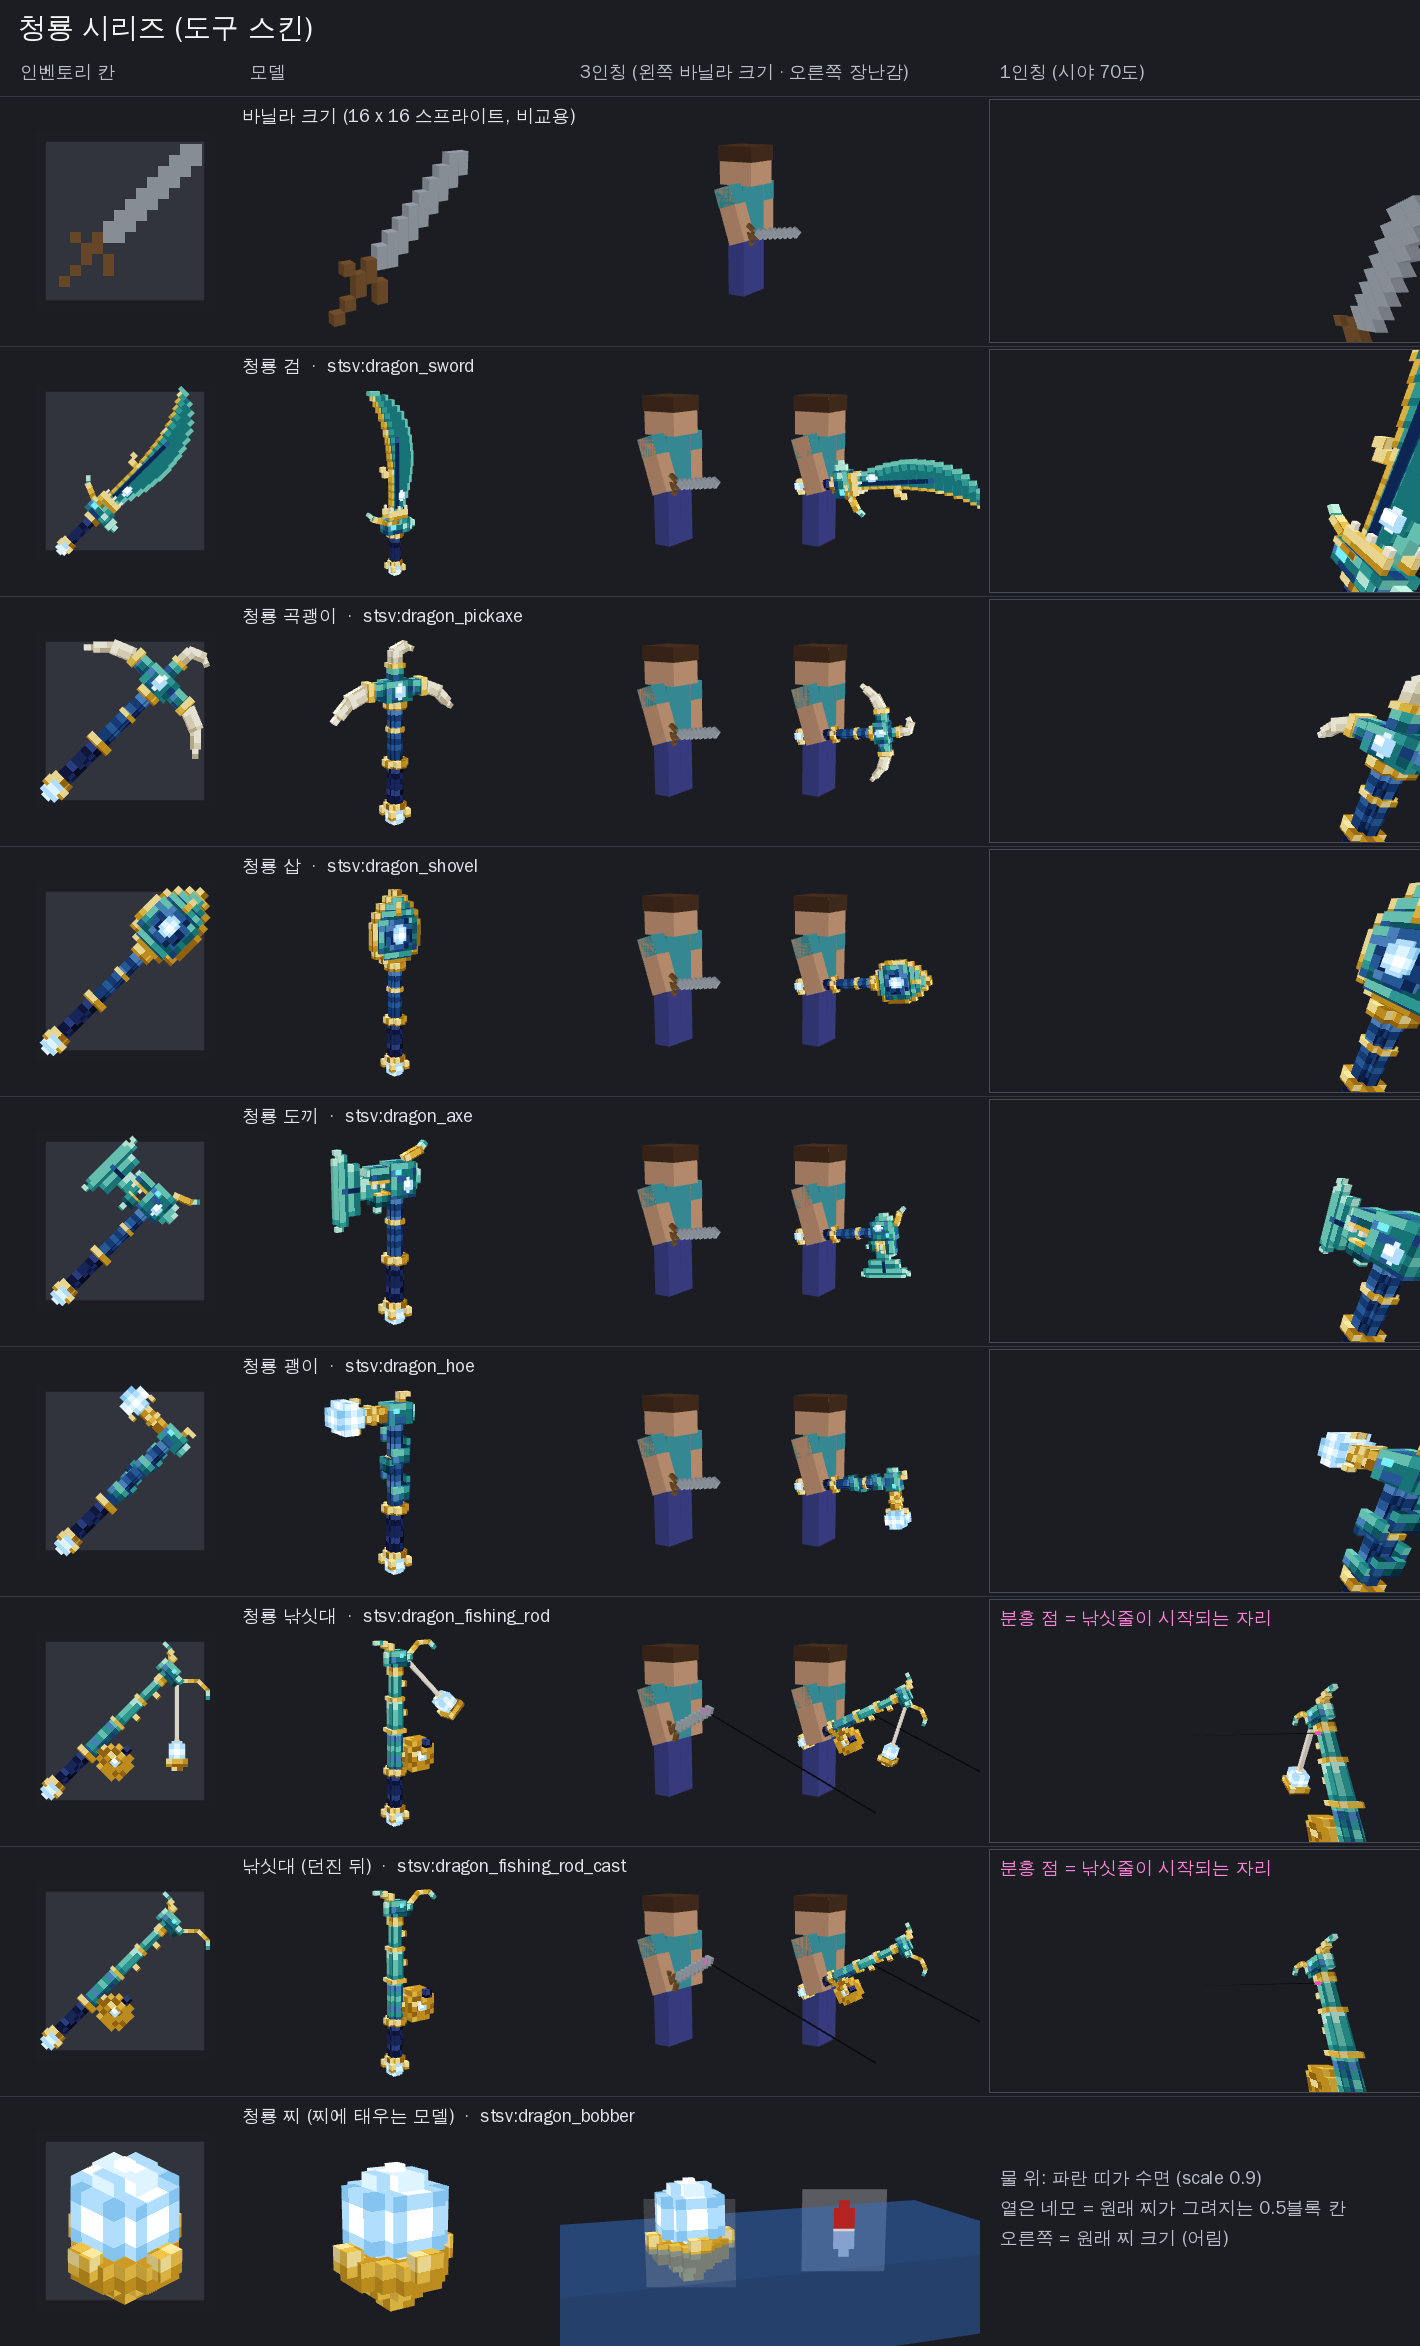
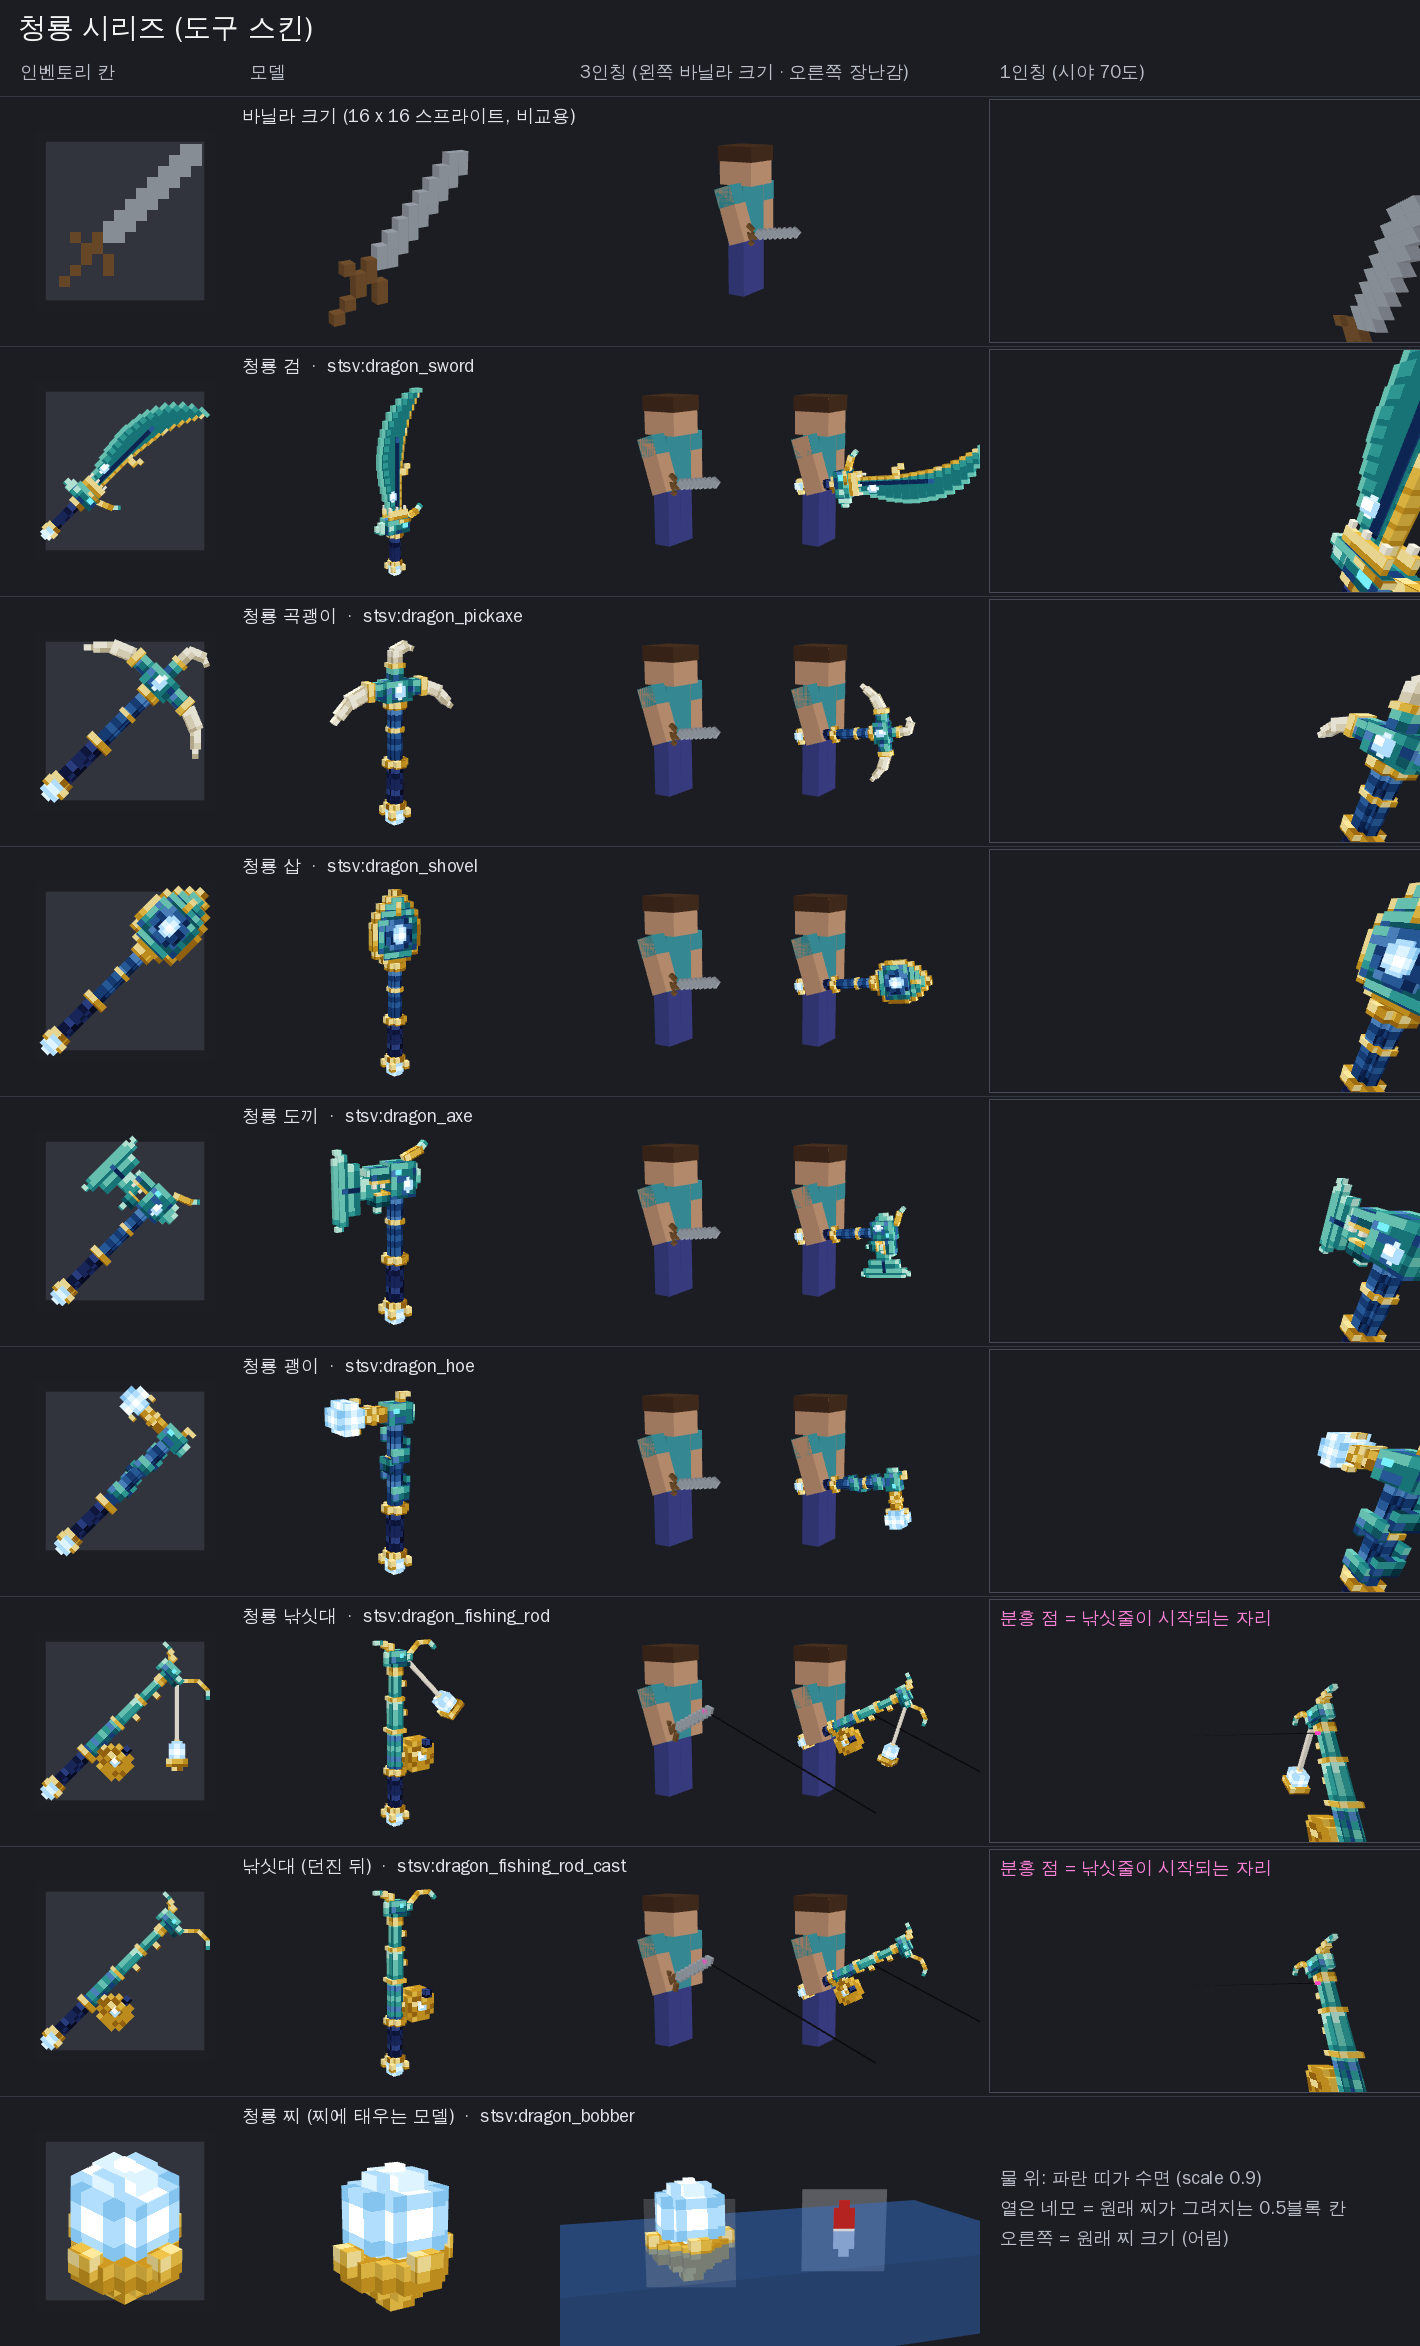
작업 중간 저장 (아직 jar 아님)
Claude-Session: https://claude.ai/code/session_01RZiBpXr9dauHCJtPMWBQ4s

diff --git a/tools/assetgen/models/skinset_dragon.py b/tools/assetgen/models/skinset_dragon.py
@@ -244,6 +244,26 @@ GLAIVE = ((11, 13, 6.5, 10), (13, 15, 6.5, 10.75), (15, 17, 6.5, 11.5), (17, 19,
 K_SWORD = 0.74
 
 
+def _mirror_x(m):
+    """Mirror every box of a model across the handle's axis (x about C): the faces east and west swap, rotations about
+    y and z turn the other way."""
+    for e in m.elements:
+        f, t = e["from"], e["to"]
+        e["from"], e["to"] = [2 * C - t[0], f[1], f[2]], [2 * C - f[0], t[1], t[2]]
+        for d in ("faces", "uv"):
+            fs = e.get(d) or {}
+            if "east" in fs or "west" in fs:
+                east, west = fs.pop("east", None), fs.pop("west", None)
+                if west is not None:
+                    fs["east"] = west
+                if east is not None:
+                    fs["west"] = east
+        if e["rotation"]:
+            axis, angle, o = e["rotation"]
+            e["rotation"] = (axis, angle if axis == "x" else -angle, (2 * C - o[0], o[1], o[2]))
+    return m
+
+
 def dragon_sword():
     """청룡언월도: a long crescent glaive blade (1.6 x the toy sword's), jade under azure scales with a pale edge that swells
     out and a tip that sweeps back, a gold back with a notch; it comes out of a dragon head's open mouth (the guard):
@@ -280,6 +300,9 @@ def dragon_sword():
     _seg_l(m, "horn_tip", (p[0] + 0.3, p[1]), 2.0, 0.5, 7.4, 8.6, 45, JADE_EDGE)
     m.box("beard", (11.25, 6.5, 7.3), (12.75, 9.5, 8.7), JADE_EDGE)
     m.box("beard", (12.75, 7, 7.5), (13.75, 8.75, 8.5), JADE_EDGE)
+    # built with the edge towards +x; mirrored so the swelling edge faces the way a vanilla sword strikes (forward and
+    # down in the hand, away from the player) and the gold back with its spur faces up
+    _mirror_x(m)
     return _held_k(m, "sword")
 
 

diff --git a/economy/README.md b/economy/README.md
@@ -8,7 +8,7 @@ STSV 공통 플러그인 위에서 도는 첫 번째 콘텐츠: 시즌 없이 **
 
 ## 설치
 
-1. `plugins/` 에 `stsv-core-0.112.0.jar` 와 `stsv-economy-3.93.0.jar` 를 함께 넣습니다 (경제 플러그인은 코어가 필요).
+1. `plugins/` 에 `stsv-core-0.112.1.jar` 와 `stsv-economy-3.93.0.jar` 를 함께 넣습니다 (경제 플러그인은 코어가 필요).
 2. 서버를 켜면 경제 콘텐츠 팩이 `plugins/STSV/contents/economy/` 에 설치되고, 아이템·기계 모델·메뉴 배경이 리소스팩에 들어갑니다.
 3. 돈과 모든 기록은 코어의 저장소(`plugins/STSV/data/stsv.db` 또는 MySQL)에 있습니다. 월드와 별개입니다.
 4. 예전 4주 시즌판(1.x)을 쓰던 서버라면 한 번 `/관리자 초기화 경제서버 확인` 으로 날짜를 1일차부터 다시 시작하는 것을 권합니다.
